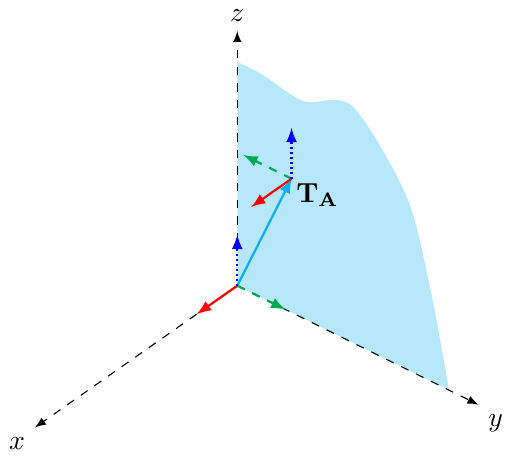
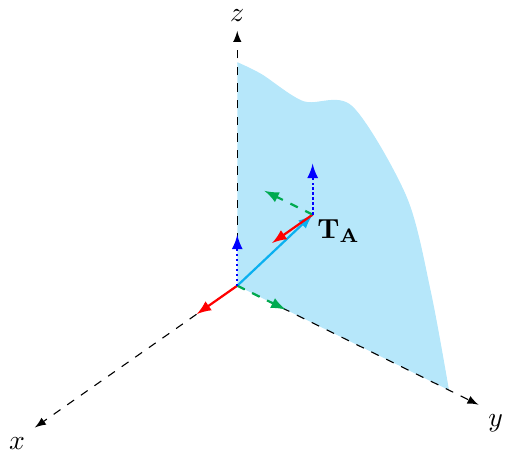
Also update E17!

Changed region(s): [[0.4678, 0.366, 0.6862, 0.61], [0.5614, 0.2745, 0.5926, 0.3355], [0.4678, 0.3355, 0.5302, 0.366]]

diff --git a/E17/E17.tex b/E17/E17.tex
@@ -45,9 +45,9 @@
 \tikzfillbetween[of=yz and yaxis] {ProcessBlue!30};
 
 % Same as E7 with (A) coordinates copied to (B) and x <-> z.
-\coordinate (A) at (2.1, 1.4, 0);
+\coordinate (A) at (1.7, 1.4, 0);
 %\coordinate (B) at (0, 1.4, 2.6);
-\coordinate (B) at (0, 0.9, 2.1);
+\coordinate (B) at (0, 1.25, 1.7);
 \coordinate (C) at (1.9, 0, 1.1);
 
 \path (O) + (\smallvecx, 0, 0) coordinate (O1);
